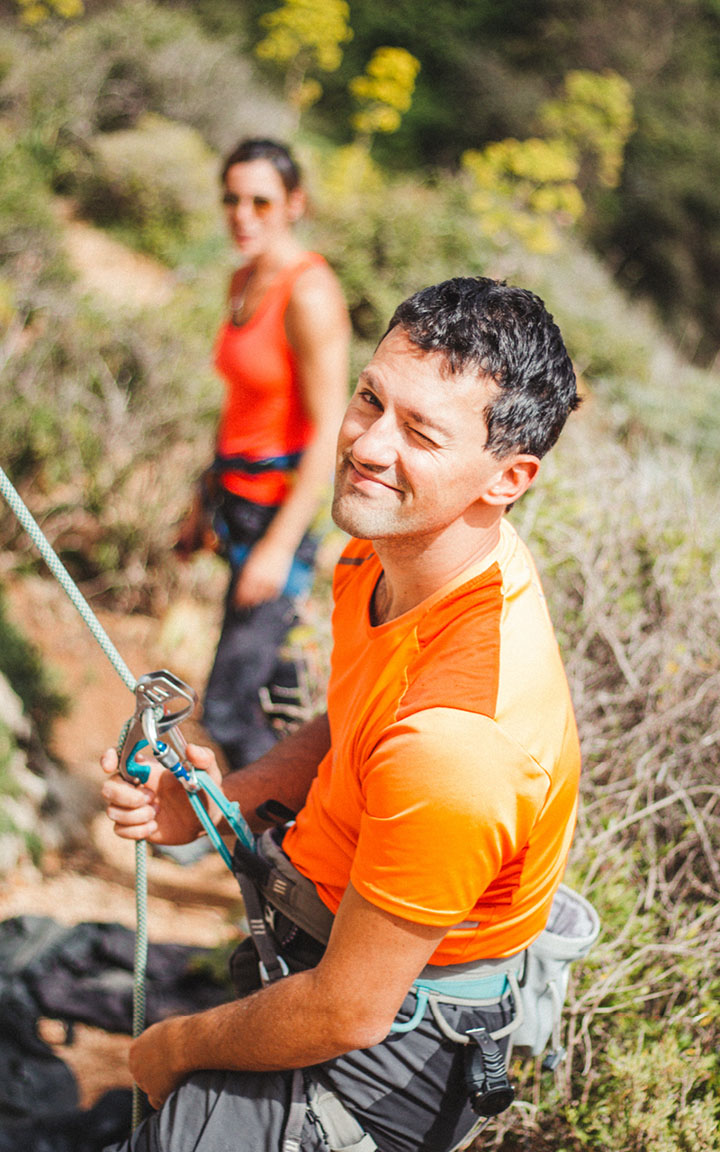
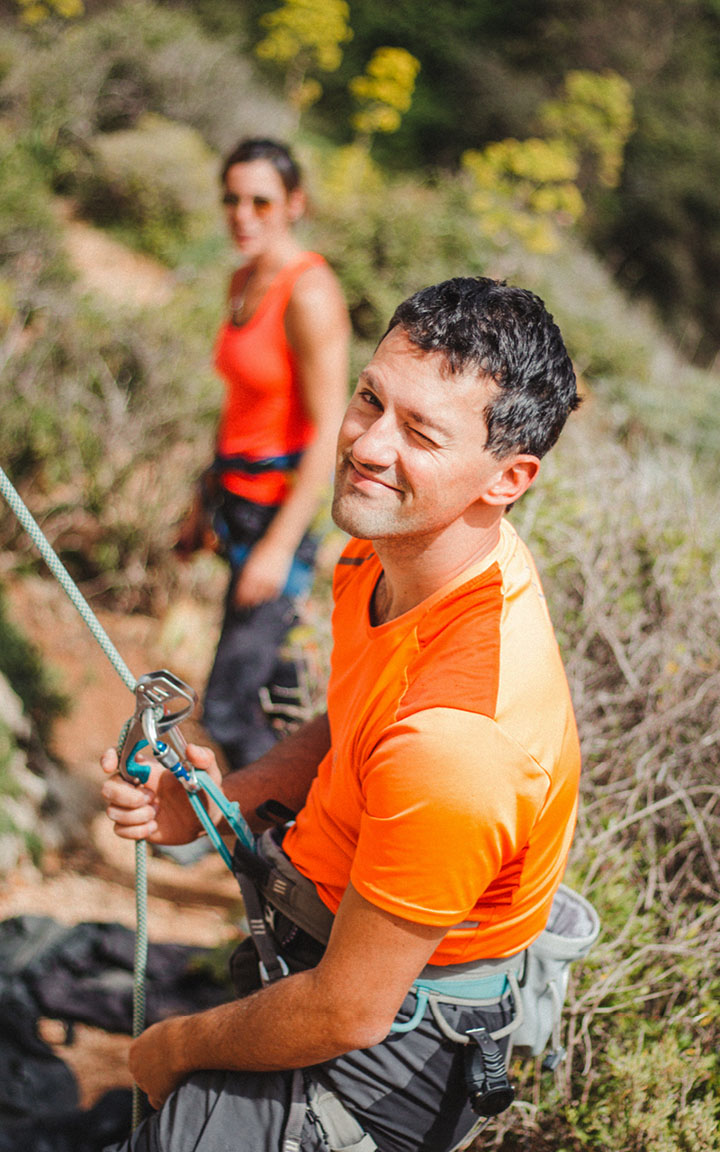
revisions v16 carly

diff --git a/src/Courses/Basics.tsx b/src/Courses/Basics.tsx
@@ -5,7 +5,7 @@ import { DetailRow, BookButton, FullPhoto, DetailCol, SmallDetailCol, HalfImageT
 import ig from "../../assets/img/ig.png";
 import fb from "../../assets/img/fb.png";
 import constructionImg from "../../assets/img/gato2.jpg";
-const beginnerImg = require("../../assets/img/img67.jpg");
+const beginnerImg = require("../../assets/img/img18.jpg");
 
 
 const Basics = () => {
